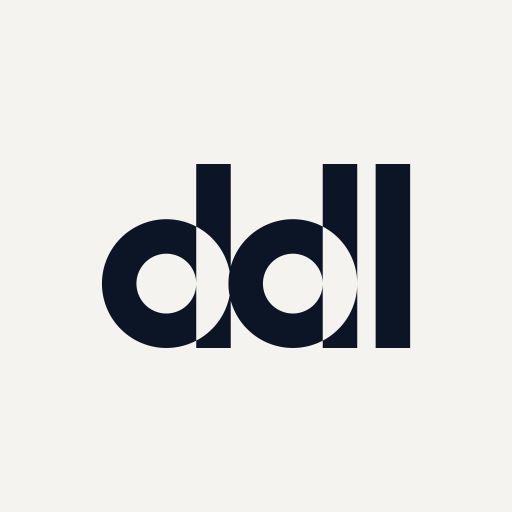
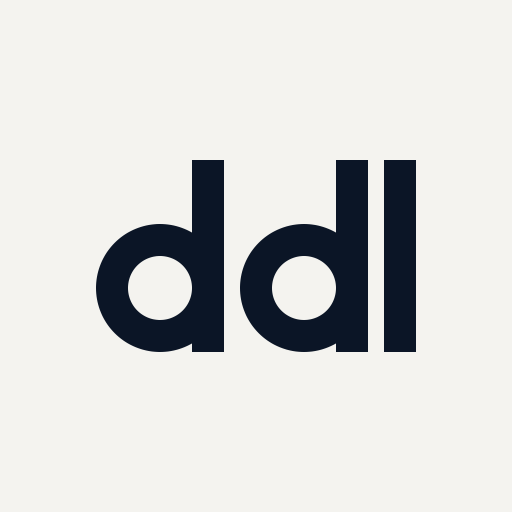
Rebuild the ddl mark from one unit
Every dimension now derives from the stroke u: counters radius u, bowls
radius 2u, stems u wide and 6u tall, all three letter gaps u/2, whole mark
10u x 6u. Removes the accidents in the old drawing: arbitrary radii (56/26)
and height (160), crescents cut by even-odd overlap, the 2-unit overlap
between the d's, the unmatched 16-unit gap before the l, and padding in the
SVG. Below 24 px the mark is the single d. BRAND.md records the reason for
each dimension. All masters, tiles, favicons and the OG image re-rendered.

Changed region(s): [[0.1875, 0.3125, 0.8125, 0.6875], [0.25, 0.4375, 0.2812, 0.4688]]

diff --git a/index.html b/index.html
@@ -22,7 +22,7 @@
 <body>
 <header class="nav">
   <a class="brand" href="/" aria-label="Daedalus Data Labs home">
-    <svg class="mark" viewBox="0 0 276 200" aria-hidden="true"><path fill="currentColor" fill-rule="evenodd" d="M4 124 A56 56 0 1 0 116 124 A56 56 0 1 0 4 124 Z M34 124 A26 26 0 1 1 86 124 A26 26 0 1 1 34 124 Z M86 20 H116 V109.1676 A56 56 0 0 0 115 113.4643 A56 56 0 0 1 116 124 A56 56 0 0 1 115 134.5357 A56 56 0 0 0 116 138.8324 V180 H86 Z M114 124 A56 56 0 1 0 226 124 A56 56 0 1 0 114 124 Z M144 124 A26 26 0 1 1 196 124 A26 26 0 1 1 144 124 Z M196 20 H226 V180 H196 Z M242 20 H272 V180 H242 Z"></path></svg>
+    <svg class="mark" viewBox="0 0 300 180" aria-hidden="true"><path fill="currentColor" fill-rule="evenodd" d="M90 0 H120 V180 H90 V171.9615 A60 60 0 1 1 90 68.0385 Z M30 120 A30 30 0 1 0 90 120 A30 30 0 1 0 30 120 Z M225 0 H255 V180 H225 V171.9615 A60 60 0 1 1 225 68.0385 Z M165 120 A30 30 0 1 0 225 120 A30 30 0 1 0 165 120 Z M270 0 H300 V180 H270 Z"></path></svg>
     <span class="brand-name">Daedalus <span class="brand-sub">Data Labs</span></span>
   </a>
   <nav class="links" aria-label="Primary">
@@ -41,27 +41,28 @@
       <h1>Software that tells you how it works.</h1>
       <p class="lede">Daedalus Data Labs is a small, independent studio. We make Meridian, which grades the US market where the data is complete, and Agora, a social network for your campus.</p>
     </div>
-    <figure class="construct" aria-label="The Daedalus Data Labs mark, drawn from its construction: two circles of radius 56 with counters of radius 26, and three stems 30 units wide.">
-      <svg viewBox="-34 -6 344 222" role="img" aria-hidden="true">
+    <figure class="construct" aria-label="The Daedalus Data Labs mark, drawn from one unit u, the stroke: counters of radius u, bowls of radius 2u, stems u wide and 6u tall, letters u/2 apart.">
+      <svg viewBox="-46 -18 362 232" role="img" aria-hidden="true">
         <g class="guides">
-          <line x1="-34" y1="20" x2="310" y2="20"/><line x1="-34" y1="68" x2="310" y2="68"/><line x1="-34" y1="180" x2="310" y2="180"/>
-          <line x1="86" y1="-6" x2="86" y2="216"/><line x1="116" y1="-6" x2="116" y2="216"/><line x1="196" y1="-6" x2="196" y2="216"/><line x1="226" y1="-6" x2="226" y2="216"/><line x1="242" y1="-6" x2="242" y2="216"/><line x1="272" y1="-6" x2="272" y2="216"/>
+          <line x1="-46" y1="0" x2="316" y2="0"/><line x1="-46" y1="60" x2="316" y2="60"/><line x1="-46" y1="180" x2="316" y2="180"/>
+          <line x1="90" y1="-18" x2="90" y2="214"/><line x1="120" y1="-18" x2="120" y2="214"/><line x1="225" y1="-18" x2="225" y2="214"/><line x1="255" y1="-18" x2="255" y2="214"/><line x1="270" y1="-18" x2="270" y2="214"/><line x1="300" y1="-18" x2="300" y2="214"/>
         </g>
         <g class="circles">
-          <circle cx="60" cy="124" r="56"/><circle cx="60" cy="124" r="26"/><circle cx="170" cy="124" r="56"/><circle cx="170" cy="124" r="26"/>
+          <circle cx="60" cy="120" r="60"/><circle cx="60" cy="120" r="30"/><circle cx="195" cy="120" r="60"/><circle cx="195" cy="120" r="30"/>
         </g>
         <g class="dims">
-          <line x1="60" y1="124" x2="16" y2="89"/><circle cx="60" cy="124" r="1.6"/><circle cx="170" cy="124" r="1.6"/>
-          <line x1="170" y1="124" x2="188.4" y2="105.6"/>
-          <line x1="242" y1="200" x2="272" y2="200"/><line x1="242" y1="196" x2="242" y2="204"/><line x1="272" y1="196" x2="272" y2="204"/>
-          <text x="-4" y="88">r 56</text><text x="160" y="143">r 26</text><text x="251" y="213">30</text>
-          <text x="-32" y="17">ascender</text><text x="-32" y="65">x-height</text><text x="-32" y="177">baseline</text>
+          <line x1="60" y1="120" x2="17.57" y2="77.57"/><circle cx="60" cy="120" r="1.6"/><circle cx="195" cy="120" r="1.6"/>
+          <line x1="195" y1="120" x2="216.21" y2="98.79"/>
+          <line x1="270" y1="196" x2="300" y2="196"/><line x1="270" y1="192" x2="270" y2="200"/><line x1="300" y1="192" x2="300" y2="200"/>
+          <line x1="255" y1="-9" x2="270" y2="-9"/><line x1="255" y1="-13" x2="255" y2="-5"/><line x1="270" y1="-13" x2="270" y2="-5"/>
+          <text x="-1" y="71">2u</text><text x="187" y="141">u</text><text x="282" y="209">u</text><text x="273" y="-6">u/2</text>
+          <text x="-44" y="-3">ascender, 6u</text><text x="-44" y="57">x-height, 4u</text><text x="-44" y="177">baseline</text>
         </g>
-        <path class="ink" fill-rule="evenodd" d="M4 124 A56 56 0 1 0 116 124 A56 56 0 1 0 4 124 Z M34 124 A26 26 0 1 1 86 124 A26 26 0 1 1 34 124 Z M86 20 H116 V109.1676 A56 56 0 0 0 115 113.4643 A56 56 0 0 1 116 124 A56 56 0 0 1 115 134.5357 A56 56 0 0 0 116 138.8324 V180 H86 Z M114 124 A56 56 0 1 0 226 124 A56 56 0 1 0 114 124 Z M144 124 A26 26 0 1 1 196 124 A26 26 0 1 1 144 124 Z M196 20 H226 V180 H196 Z M242 20 H272 V180 H242 Z"/>
-        <clipPath id="ink-clip"><path clip-rule="evenodd" d="M4 124 A56 56 0 1 0 116 124 A56 56 0 1 0 4 124 Z M34 124 A26 26 0 1 1 86 124 A26 26 0 1 1 34 124 Z M86 20 H116 V109.1676 A56 56 0 0 0 115 113.4643 A56 56 0 0 1 116 124 A56 56 0 0 1 115 134.5357 A56 56 0 0 0 116 138.8324 V180 H86 Z M114 124 A56 56 0 1 0 226 124 A56 56 0 1 0 114 124 Z M144 124 A26 26 0 1 1 196 124 A26 26 0 1 1 144 124 Z M196 20 H226 V180 H196 Z M242 20 H272 V180 H242 Z"/></clipPath>
+        <path class="ink" fill-rule="evenodd" d="M90 0 H120 V180 H90 V171.9615 A60 60 0 1 1 90 68.0385 Z M30 120 A30 30 0 1 0 90 120 A30 30 0 1 0 30 120 Z M225 0 H255 V180 H225 V171.9615 A60 60 0 1 1 225 68.0385 Z M165 120 A30 30 0 1 0 225 120 A30 30 0 1 0 165 120 Z M270 0 H300 V180 H270 Z"/>
+        <clipPath id="ink-clip"><path clip-rule="evenodd" d="M90 0 H120 V180 H90 V171.9615 A60 60 0 1 1 90 68.0385 Z M30 120 A30 30 0 1 0 90 120 A30 30 0 1 0 30 120 Z M225 0 H255 V180 H225 V171.9615 A60 60 0 1 1 225 68.0385 Z M165 120 A30 30 0 1 0 225 120 A30 30 0 1 0 165 120 Z M270 0 H300 V180 H270 Z"/></clipPath>
         <g class="over" clip-path="url(#ink-clip)">
-          <line x1="-34" y1="68" x2="310" y2="68"/><line x1="86" y1="-6" x2="86" y2="216"/><line x1="116" y1="-6" x2="116" y2="216"/><line x1="196" y1="-6" x2="196" y2="216"/><line x1="226" y1="-6" x2="226" y2="216"/>
-          <circle cx="60" cy="124" r="56"/><circle cx="170" cy="124" r="56"/><line x1="60" y1="124" x2="16" y2="89"/>
+          <line x1="-46" y1="60" x2="316" y2="60"/><line x1="90" y1="-18" x2="90" y2="214"/><line x1="120" y1="-18" x2="120" y2="214"/><line x1="225" y1="-18" x2="225" y2="214"/><line x1="255" y1="-18" x2="255" y2="214"/>
+          <circle cx="60" cy="120" r="60"/><circle cx="195" cy="120" r="60"/><line x1="60" y1="120" x2="17.57" y2="77.57"/>
         </g>
       </svg>
     </figure>
@@ -116,7 +117,7 @@
 
 <footer class="foot">
   <div class="foot-brand">
-    <svg class="mark small" viewBox="0 0 276 200" aria-hidden="true"><path fill="currentColor" fill-rule="evenodd" d="M4 124 A56 56 0 1 0 116 124 A56 56 0 1 0 4 124 Z M34 124 A26 26 0 1 1 86 124 A26 26 0 1 1 34 124 Z M86 20 H116 V109.1676 A56 56 0 0 0 115 113.4643 A56 56 0 0 1 116 124 A56 56 0 0 1 115 134.5357 A56 56 0 0 0 116 138.8324 V180 H86 Z M114 124 A56 56 0 1 0 226 124 A56 56 0 1 0 114 124 Z M144 124 A26 26 0 1 1 196 124 A26 26 0 1 1 144 124 Z M196 20 H226 V180 H196 Z M242 20 H272 V180 H242 Z"></path></svg>
+    <svg class="mark small" viewBox="0 0 300 180" aria-hidden="true"><path fill="currentColor" fill-rule="evenodd" d="M90 0 H120 V180 H90 V171.9615 A60 60 0 1 1 90 68.0385 Z M30 120 A30 30 0 1 0 90 120 A30 30 0 1 0 30 120 Z M225 0 H255 V180 H225 V171.9615 A60 60 0 1 1 225 68.0385 Z M165 120 A30 30 0 1 0 225 120 A30 30 0 1 0 165 120 Z M270 0 H300 V180 H270 Z"></path></svg>
     <p>&copy; 2026 Daedalus Data Labs, LLC</p>
   </div>
   <nav class="foot-cols" aria-label="Footer">

diff --git a/assets/site.css b/assets/site.css
@@ -11,7 +11,7 @@ a{color:inherit}
 .nav{display:flex;align-items:center;justify-content:space-between;gap:24px;padding-top:26px;padding-bottom:26px}
 .brand{display:flex;align-items:center;gap:14px;text-decoration:none}
 .mark{height:34px;width:auto;display:block}
-.mark.small{height:22px}
+.mark.small{height:24px}
 .brand-name{font-weight:600;font-size:19px;letter-spacing:-.02em}
 .brand-sub{font-weight:400;color:var(--muted)}
 .links{display:flex;align-items:center;gap:24px;font-size:15px;font-weight:500}
@@ -38,7 +38,7 @@ a{color:inherit}
 .over line,.over circle{fill:none;stroke:var(--ground);stroke-opacity:.38;stroke-width:.6;vector-effect:non-scaling-stroke;stroke-dasharray:3 4}
 @media (prefers-reduced-motion:no-preference){
 .guides line{stroke-dashoffset:0;animation:fade .6s ease-out both}
-.circles circle{stroke-dasharray:360;stroke-dashoffset:360;animation:draw 1.1s cubic-bezier(.6,0,.2,1) .25s forwards}
+.circles circle{stroke-dasharray:380;stroke-dashoffset:380;animation:draw 1.1s cubic-bezier(.6,0,.2,1) .25s forwards}
 .circles circle:nth-child(2),.circles circle:nth-child(4){animation-delay:.45s}
 .dims{animation:fade .5s ease-out 1.1s both}
 .ink,.over{animation:fill .7s ease-out 1.25s both}

diff --git a/BRAND.md b/BRAND.md
@@ -1,0 +1,31 @@
+# The ddl mark
+
+Every dimension of the mark comes from one unit, **u**, the stroke width. Nothing in it is
+set by eye. `assets/ddl-master-ink.svg` is the source; every other file is rendered from it.
+
+| Element | Size | Why |
+|---|---|---|
+| Stroke | u | One weight everywhere, so the mark reads as one drawing, not assembled parts. |
+| Counter | radius u | A bowl whose ring is exactly one stroke thick needs a counter of u inside an outer radius of 2u. |
+| Bowl | radius 2u (x-height 4u) | The ring's thickness, 2u − u, equals the stroke. |
+| Stem | u wide | The stem is the bowl's own right-hand stroke carried up, so the bowl and stem share an edge and meet without a seam. |
+| Ascender | 6u tall | The stem rises one bowl radius (2u) above the bowl. |
+| Letter gap | u/2, all three | One rule for every space, measured at the nearest point. |
+| Whole mark | 10u × 6u (5 : 3) | Follows from the above: two 4u d's, one u l, two u/2 gaps. |
+| Fill | solid, one ink | Ink `#0B1526` on marble `#F4F3EF`, or reversed. No cut-outs, gradients or outlines, so it holds at any size. |
+
+The SVG has no padding: its edges are the ink's edges. Clear space is supplied by the layout
+and is at least **2u** on every side.
+
+## Sizes
+
+- The full mark is used at 24 px tall and above.
+- Below that (favicons) it is the single **d**: the first letter, the same geometry, 4u × 6u.
+- App tiles are 16u square with the mark centred (`ddl-tile-ink-on-marble-512.png`,
+  `apple-touch-icon.png`); favicon tiles are 8u square with the d centred.
+
+## Files
+
+- `ddl-master-ink.svg`, `ddl-master-reversed.svg`: the source, viewBox `0 0 300 180` (u = 30).
+- `ddl-master-ink.png`, `ddl-master-reversed.png`: 9000 × 5400, transparent, cropped to the ink.
+- `ddl-mark-ink.svg`, `ddl-mark-reversed.svg`, `ddl-d-ink.svg`: for the web.

diff --git a/README.md b/README.md
@@ -2,4 +2,4 @@
 
 Static site for Daedalus Data Labs, LLC. No build step: `index.html`, `assets/site.css`, and the brand files in `assets/`.
 
-Deploy: point Netlify or Vercel at this repo with the root as the publish directory. Brand rules and the full asset set live in the brand kit (USAGE.md).
+Deploy: point Netlify or Vercel at this repo with the root as the publish directory. The mark's construction and usage rules are in `BRAND.md`.
